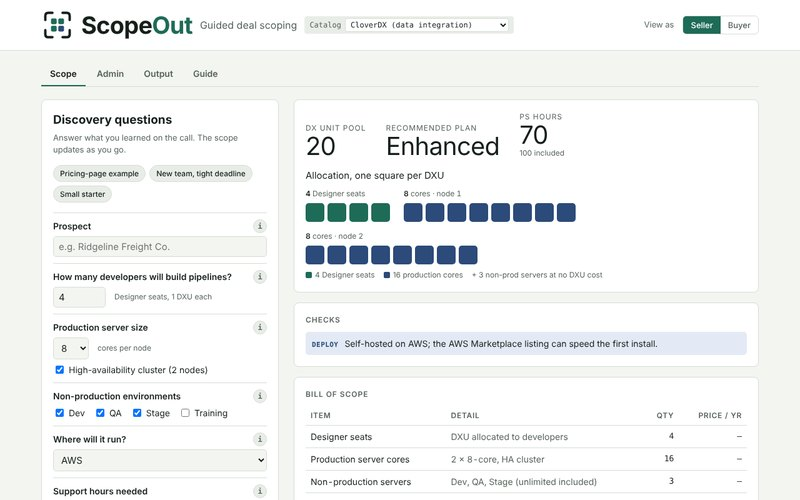
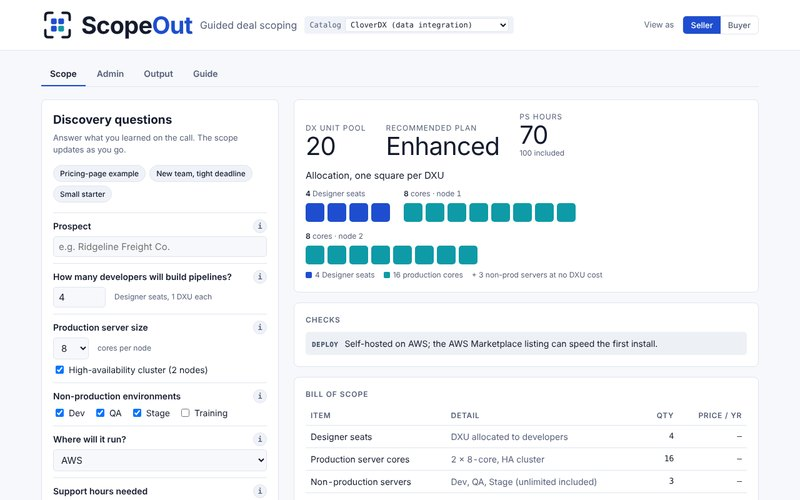
ScopeOut: Candy Plasma Blue brand color
Accent changes from green to a deep electric blue (#1E4ECF), with a teal
secondary so allocation squares stay distinct; neutrals shift to cool grey.
Logo files, email template and project card updated to match.

Claude-Session: https://claude.ai/code/session_01GYMZZ554N6PiqXfydjiJg2

diff --git a/scopeout/index.html b/scopeout/index.html
@@ -14,9 +14,9 @@
 /* Single light theme on purpose: this is screen-shared on sales calls. */
 :root{
   color-scheme:light;
-  --bg:#F8F9F7; --surface:#FFFFFF; --sunk:#F1F4F0; --ink:#16201B; --muted:#56635B; --line:#E0E5DE;
-  --accent:#1E6B57; --accent-soft:#E2F1EA; --on-accent:#FFFFFF; --prod:#2C4A7A; --prod-soft:#E4EAF4;
-  --warn:#8A4B00; --warn-bg:#FCF1E1; --crit:#9B2028; --crit-bg:#F9E6E7; --info:#2C4A7A; --info-bg:#E9EFF8; --overlay:rgba(22,32,27,.45);
+  --bg:#F7F8FB; --surface:#FFFFFF; --sunk:#EFF2F8; --ink:#141B2D; --muted:#566079; --line:#DFE4EE;
+  --accent:#1E4ECF; --accent-soft:#E6ECFB; --on-accent:#FFFFFF; --prod:#0E9AA7; --prod-soft:#E0F4F5;
+  --warn:#8A4B00; --warn-bg:#FCF1E1; --crit:#9B2028; --crit-bg:#F9E6E7; --info:#3B4A63; --info-bg:#EDF0F5; --overlay:rgba(14,20,36,.45);
   --f-display:"Bricolage Grotesque", "Segoe UI", system-ui, sans-serif;
   --f-body:"Public Sans", "Segoe UI", system-ui, sans-serif;
   --f-mono:"JetBrains Mono", ui-monospace, "SFMono-Regular", Menlo, monospace;
@@ -206,7 +206,7 @@ input.disc{width:68px;padding:3px 6px;font-size:14px;text-align:right}
 .mhead{display:flex;gap:12px;justify-content:space-between;align-items:flex-start;padding:14px 16px;border-bottom:1px solid var(--line)}
 .mhead > div{min-width:0;overflow-wrap:anywhere}
 .mnote{margin:0;padding:10px 16px;background:var(--info-bg);color:var(--info);font-size:13px}
-.mbody{background:#F3F5F1;overflow-x:auto}
+.mbody{background:#F4F6FA;overflow-x:auto}
 .livetag{font:600 11px var(--f-mono);text-transform:uppercase;letter-spacing:.05em;padding:2px 8px;border-radius:999px;background:var(--sunk);color:var(--muted);margin-left:8px;vertical-align:middle}
 .vendor{display:inline-flex;align-items:baseline;gap:6px 14px;flex-wrap:wrap}
 .vendor b{font-family:var(--f-display);font-size:36px;line-height:1;letter-spacing:-.02em;color:var(--accent)}
@@ -524,7 +524,7 @@ footer{font-size:12px;color:var(--muted);padding-block:0 32px}
   if (typeof module === "object" && module.exports) module.exports = factory();
   else root.ScopeOutEmail = factory();
 })(typeof self !== "undefined" ? self : this, function () {
-  const C = { bg: "#F3F5F1", card: "#FFFFFF", ink: "#16201B", muted: "#56635B", line: "#D5DCD4", accent: "#1E6B57", soft: "#DCEDE6", prod: "#2C4A7A", warnBg: "#FBEEDA", warn: "#8A4B00" };
+  const C = { bg: "#F4F6FA", card: "#FFFFFF", ink: "#141B2D", muted: "#566079", line: "#DCE2EC", accent: "#1E4ECF", soft: "#E6ECFB", prod: "#0E9AA7", warnBg: "#FBEEDA", warn: "#8A4B00" };
   const FONT = "-apple-system,BlinkMacSystemFont,'Segoe UI',Helvetica,Arial,sans-serif";
   const esc = v => String(v == null ? "" : v).replace(/[&<>"']/g, c => ({ "&": "&amp;", "<": "&lt;", ">": "&gt;", '"': "&quot;", "'": "&#39;" })[c]);
   const str = (v, max) => String(v == null ? "" : v).replace(/<[^>]*>/g, "").replace(/[\u0000-\u0008\u000B\u000C\u000E-\u001F]/g, "").trim().slice(0, max);
@@ -1377,7 +1377,7 @@ document.addEventListener("click",e=>{
 
 /* ---------- Email: preview always, real sending when the site is connected to the mailer ---------- */
 const CFG=Object.assign({mailerUrl:"",turnstileSiteKey:"",logoUrl:"",pageUrl:"https://www.davidcreason.com/scopeout/"},window.SCOPEOUT_CONFIG||{});
[2 lines of base64/hex data omitted]
 const live=()=>!!(CFG.mailerUrl&&CFG.turnstileSiteKey);
 const plain=html=>{ const d=document.createElement("div"); d.innerHTML=html; return d.textContent.replace(/\s+/g," ").trim(); };
 const EMAIL_OK=/^[^\s@<>()\[\],;:"]{1,64}@[A-Za-z0-9.-]{1,190}\.[A-Za-z]{2,24}$/;

diff --git a/scopeout-mailer/lib/email-template.js b/scopeout-mailer/lib/email-template.js
@@ -4,7 +4,7 @@
   if (typeof module === "object" && module.exports) module.exports = factory();
   else root.ScopeOutEmail = factory();
 })(typeof self !== "undefined" ? self : this, function () {
-  const C = { bg: "#F3F5F1", card: "#FFFFFF", ink: "#16201B", muted: "#56635B", line: "#D5DCD4", accent: "#1E6B57", soft: "#DCEDE6", prod: "#2C4A7A", warnBg: "#FBEEDA", warn: "#8A4B00" };
+  const C = { bg: "#F4F6FA", card: "#FFFFFF", ink: "#141B2D", muted: "#566079", line: "#DCE2EC", accent: "#1E4ECF", soft: "#E6ECFB", prod: "#0E9AA7", warnBg: "#FBEEDA", warn: "#8A4B00" };
   const FONT = "-apple-system,BlinkMacSystemFont,'Segoe UI',Helvetica,Arial,sans-serif";
   const esc = v => String(v == null ? "" : v).replace(/[&<>"']/g, c => ({ "&": "&amp;", "<": "&lt;", ">": "&gt;", '"': "&quot;", "'": "&#39;" })[c]);
   const str = (v, max) => String(v == null ? "" : v).replace(/<[^>]*>/g, "").replace(/[\u0000-\u0008\u000B\u000C\u000E-\u001F]/g, "").trim().slice(0, max);
